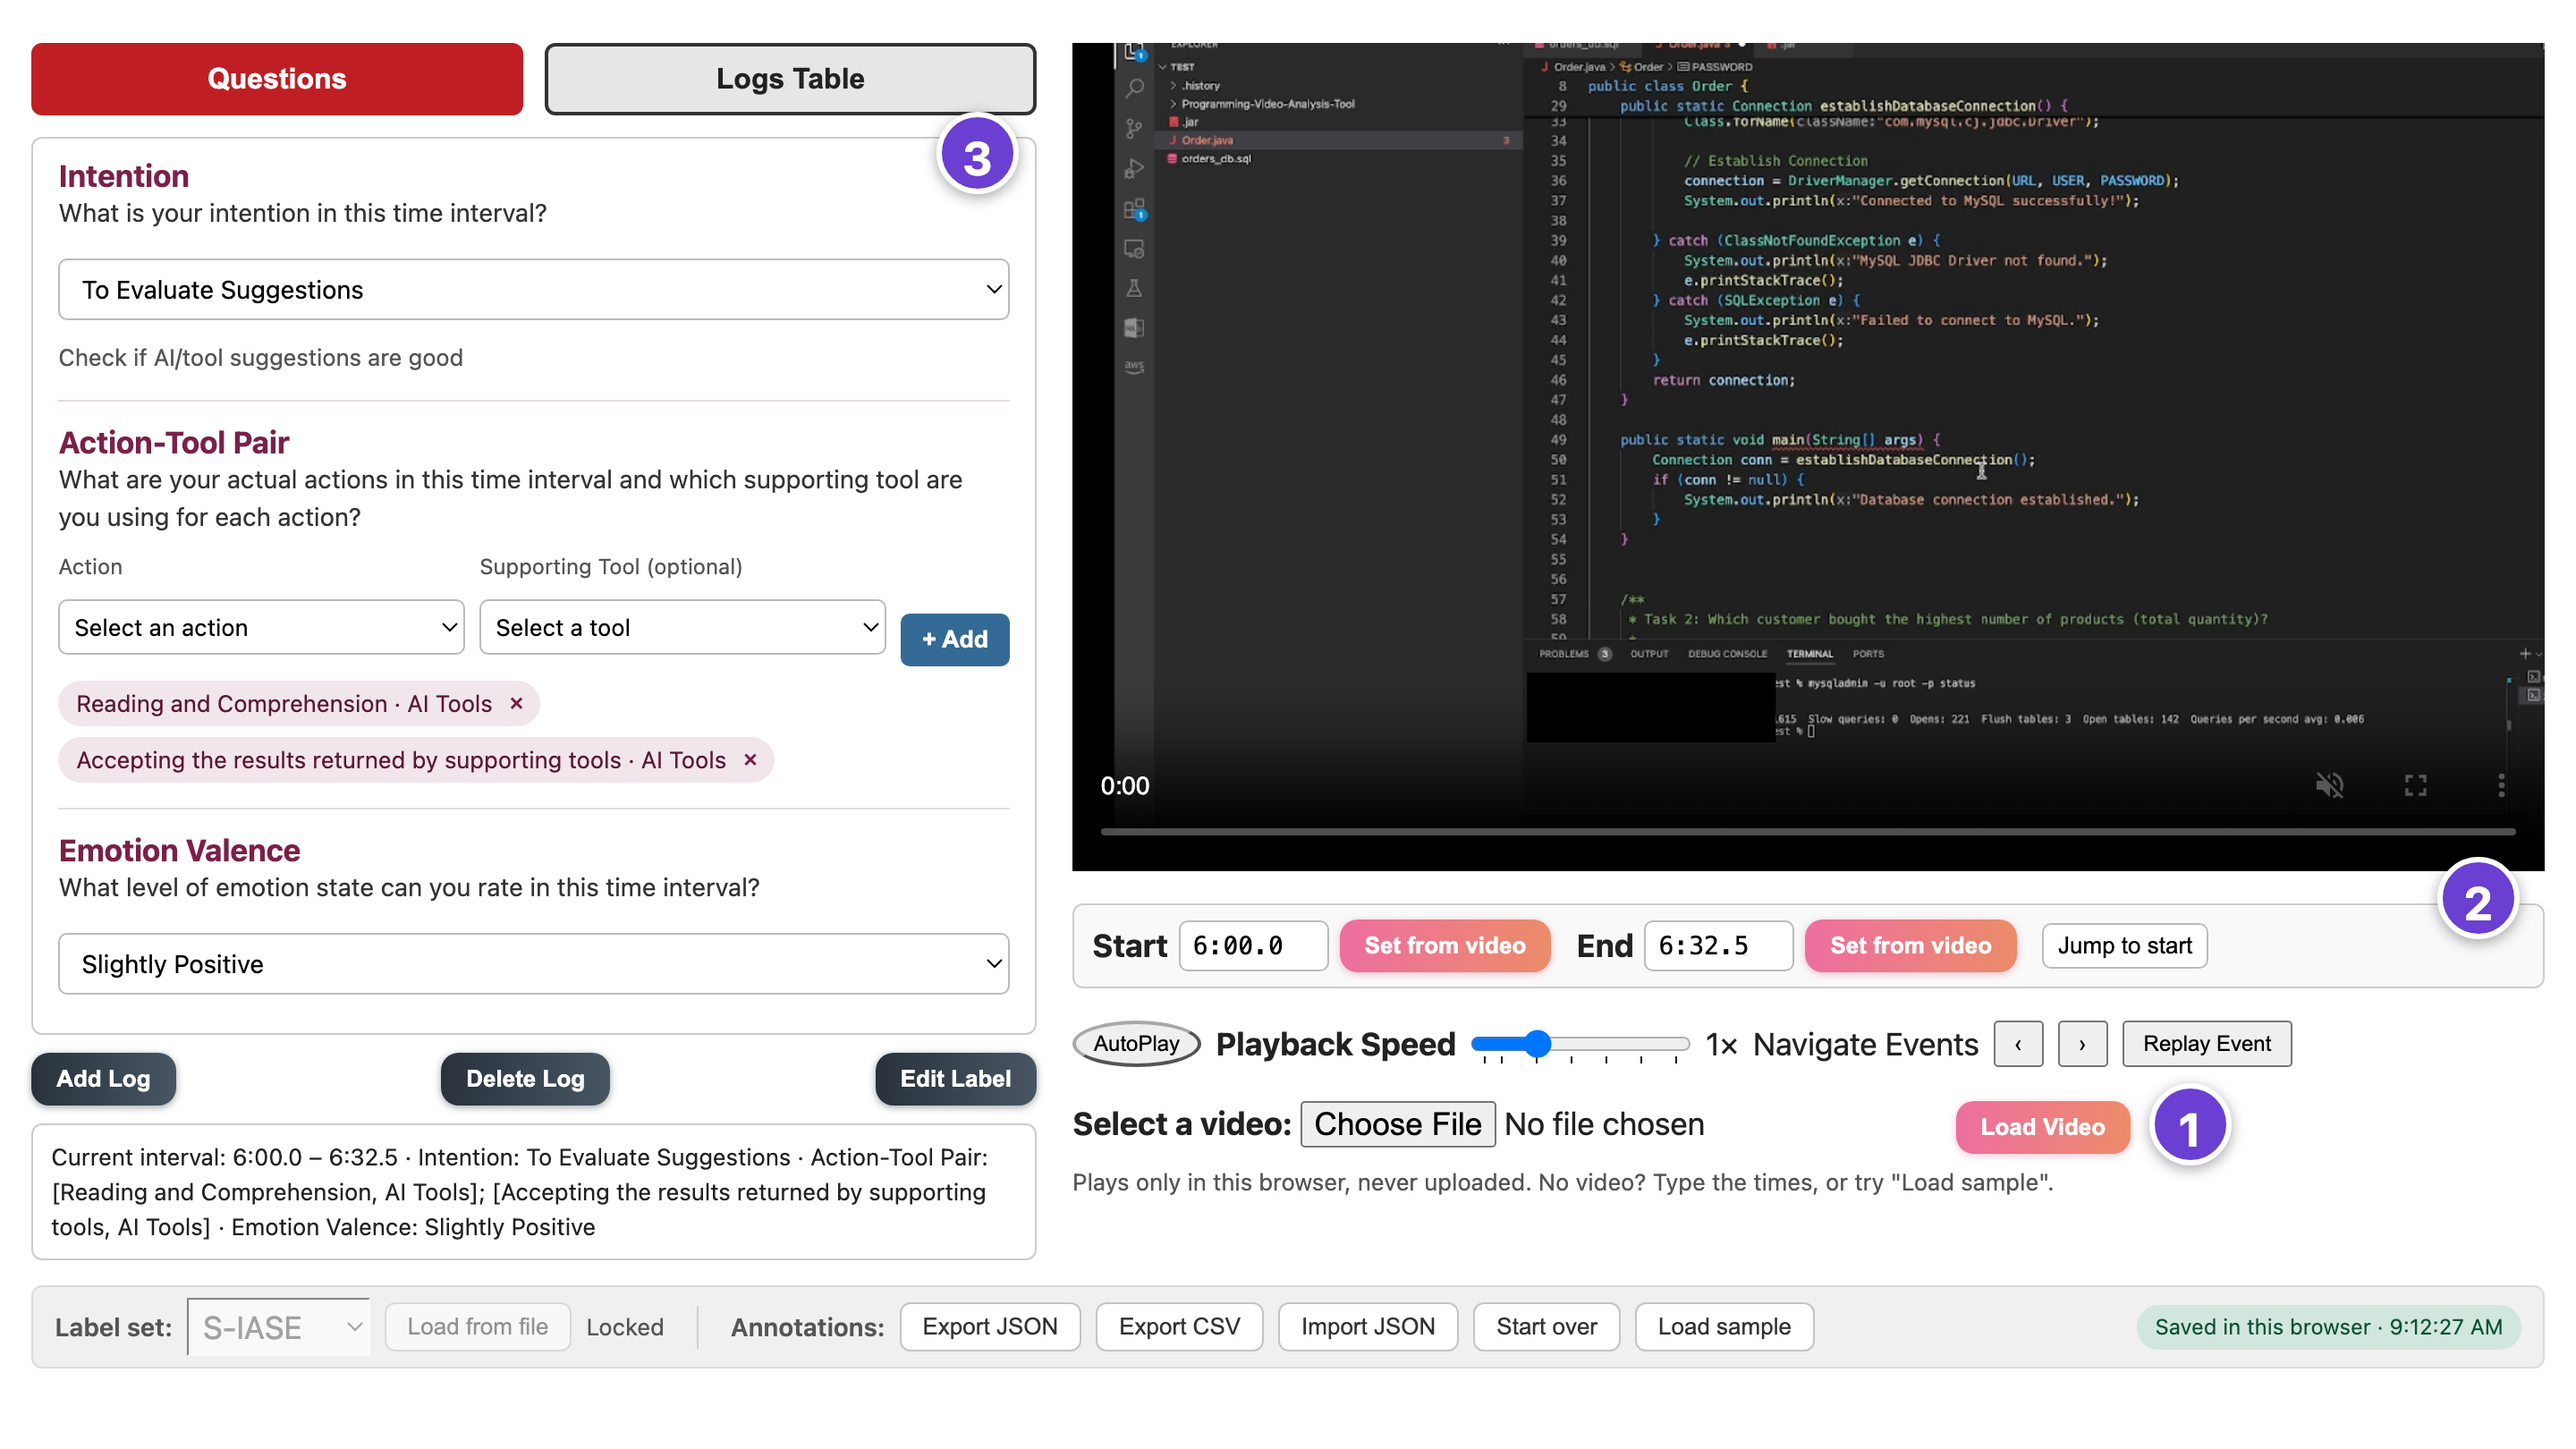
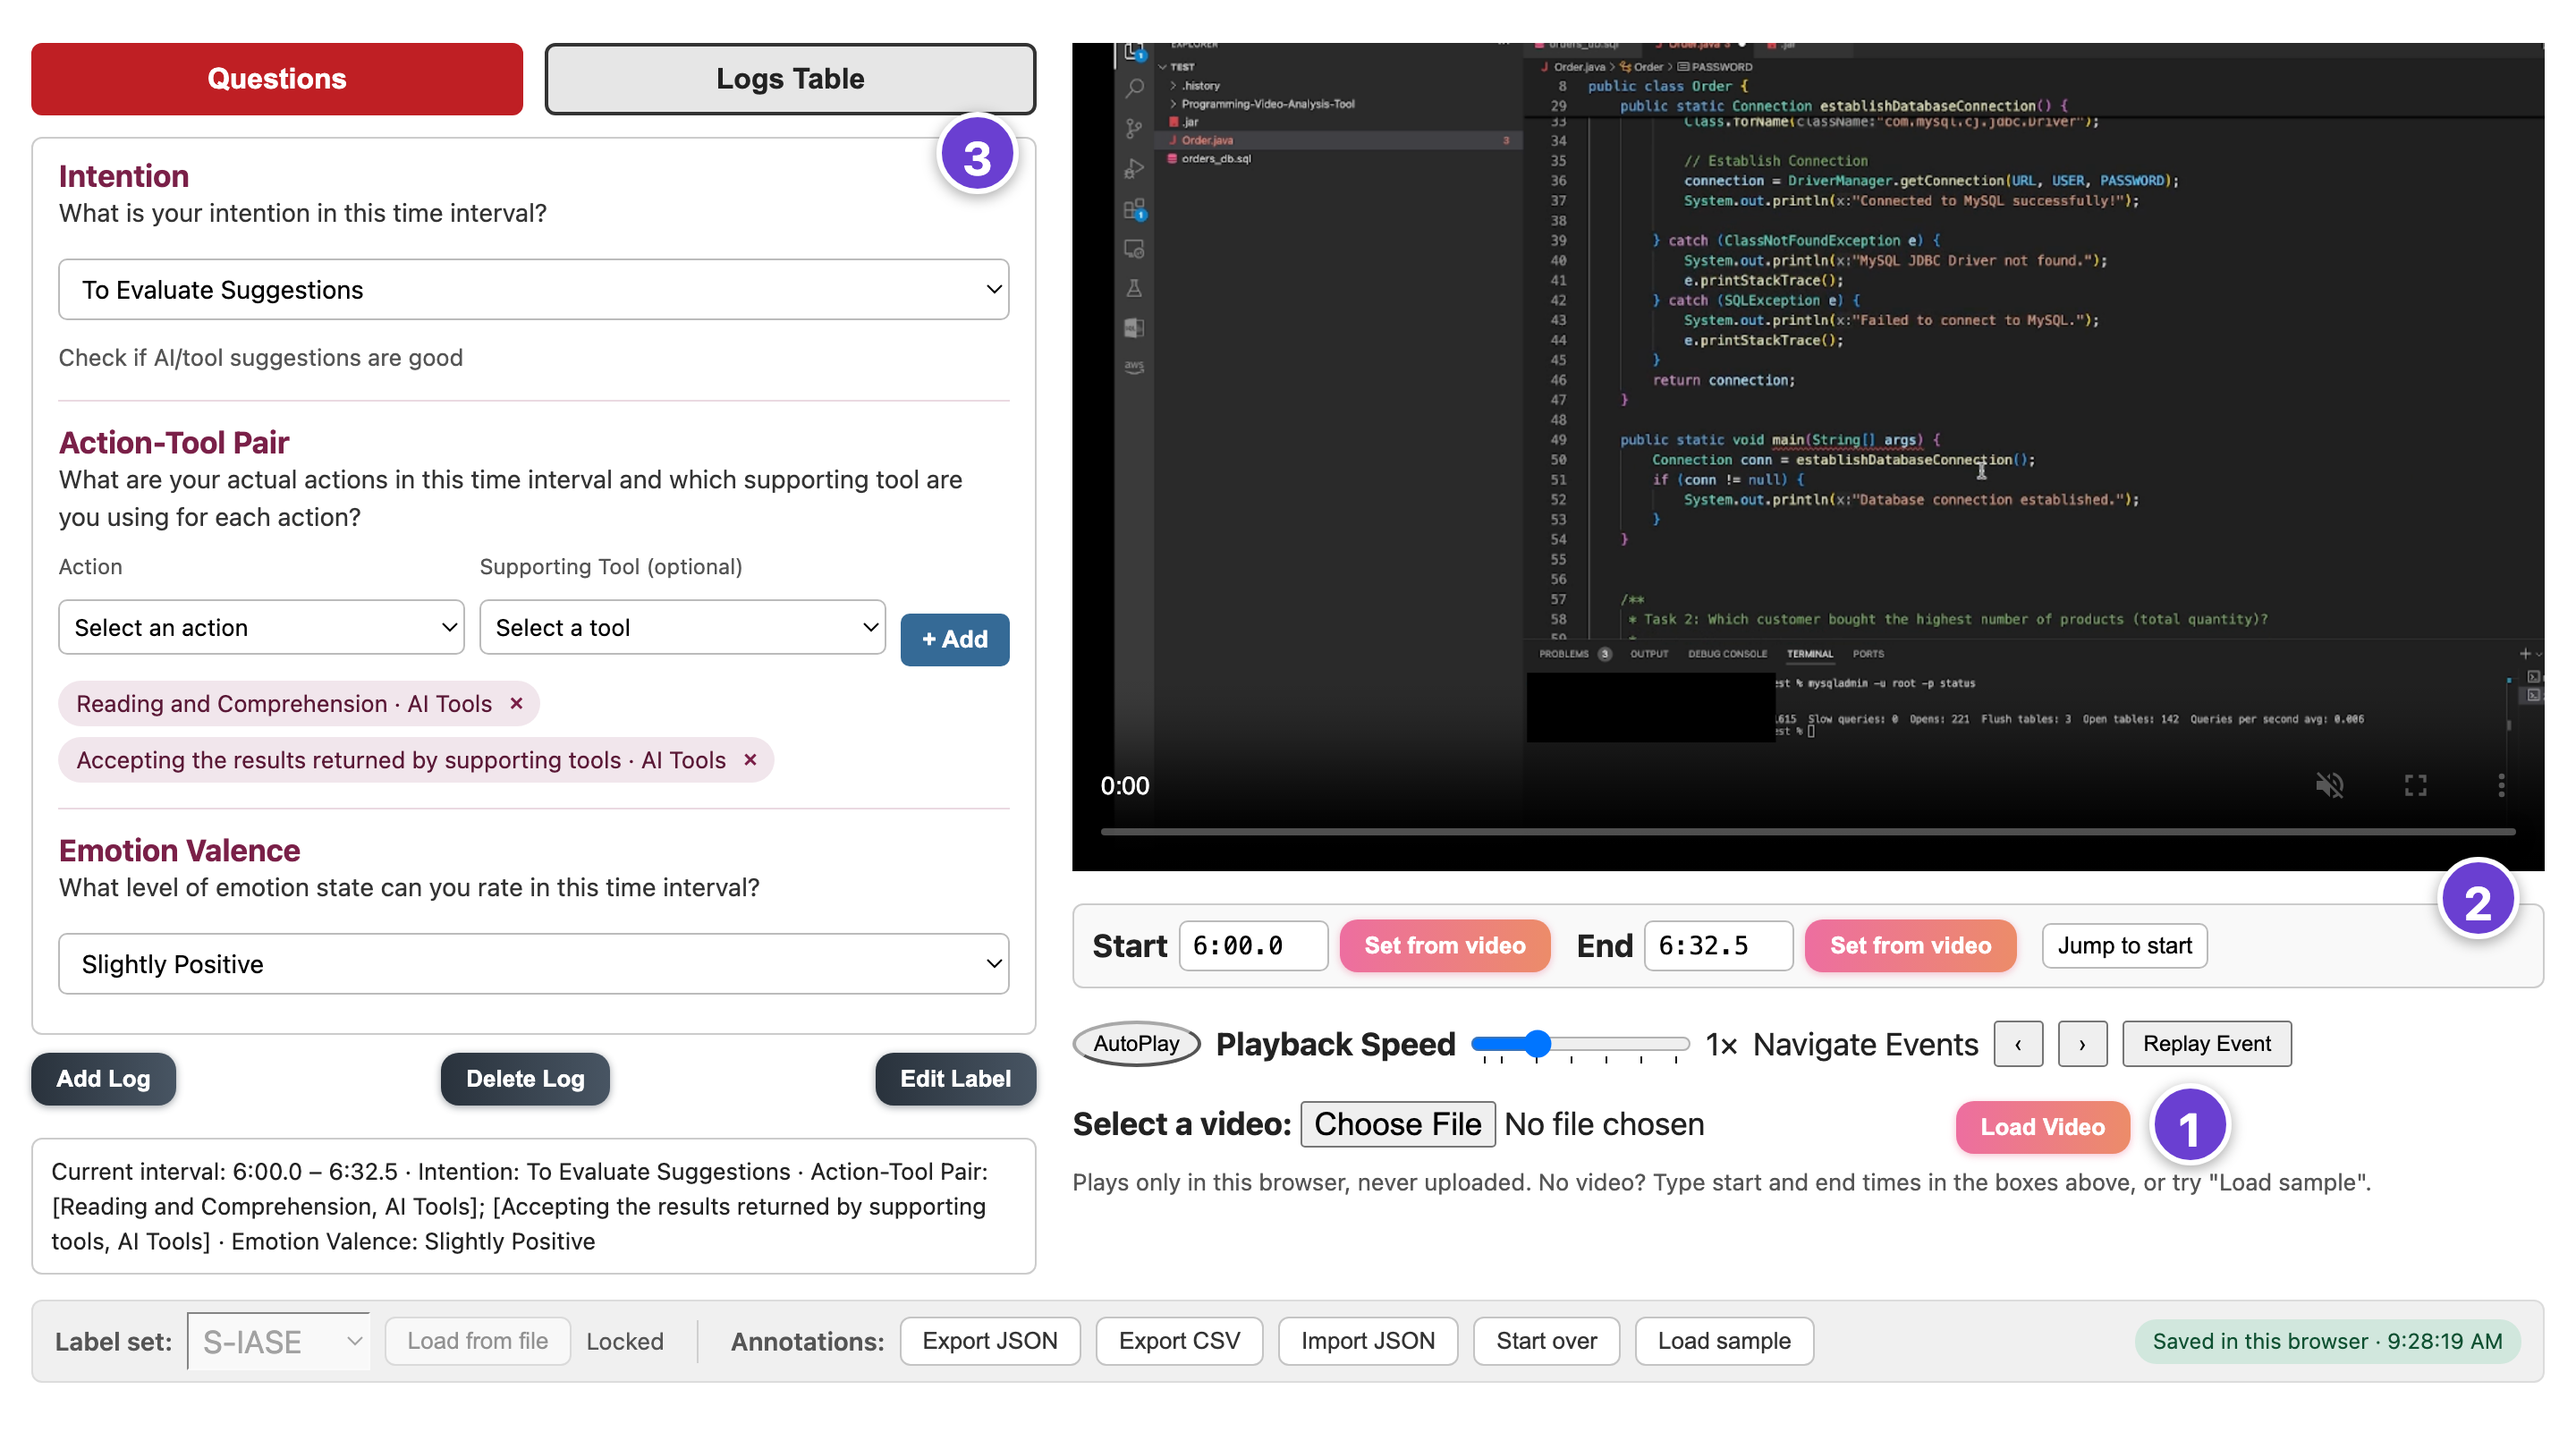
Clearer video hint; a little more space above the interval summary
Screenshots retaken.

Changed region(s): [[0.0, 0.7716, 0.7188, 0.9568], [0.8125, 0.8951, 1.0, 0.9568], [0.6562, 0.8025, 0.9062, 0.8333]]

diff --git a/app_study/index.html b/app_study/index.html
@@ -57,7 +57,7 @@
 
     /* Add / Delete / Edit and the summary of the interval being annotated */
     .button-group { display: flex; justify-content: space-between; gap: 8px; margin-top: 10px; }
-    #state { margin-top: 10px; padding: 8px 10px; border: 1px solid #ccc; border-radius: 6px; font-size: 13px; }
+    #state { margin-top: 18px; padding: 8px 10px; border: 1px solid #ccc; border-radius: 6px; font-size: 13px; }
     #state .missing { margin-top: 4px; color: #8a4b00; }
 
     /* The video fills the right column; 16:9 until a recording is loaded, then the recording's own shape,
@@ -200,7 +200,7 @@
                 <label for="video-upload">Select a video:</label>
                 <input type="file" id="video-upload" accept="video/*">
                 <button id="loadVideoButton" class="btn-hover color-10">Load Video</button>
-                <p class="video-hint">Plays only in this browser, never uploaded. No video? Type the times, or try "Load sample".</p>
+                <p class="video-hint">Plays only in this browser, never uploaded. No video? Type start and end times in the boxes above, or try "Load sample".</p>
               </div>
 
             </div>

diff --git a/docs/app/index.html b/docs/app/index.html
@@ -57,7 +57,7 @@
 
     /* Add / Delete / Edit and the summary of the interval being annotated */
     .button-group { display: flex; justify-content: space-between; gap: 8px; margin-top: 10px; }
-    #state { margin-top: 10px; padding: 8px 10px; border: 1px solid #ccc; border-radius: 6px; font-size: 13px; }
+    #state { margin-top: 18px; padding: 8px 10px; border: 1px solid #ccc; border-radius: 6px; font-size: 13px; }
     #state .missing { margin-top: 4px; color: #8a4b00; }
 
     /* The video fills the right column; 16:9 until a recording is loaded, then the recording's own shape,
@@ -200,7 +200,7 @@
                 <label for="video-upload">Select a video:</label>
                 <input type="file" id="video-upload" accept="video/*">
                 <button id="loadVideoButton" class="btn-hover color-10">Load Video</button>
-                <p class="video-hint">Plays only in this browser, never uploaded. No video? Type the times, or try "Load sample".</p>
+                <p class="video-hint">Plays only in this browser, never uploaded. No video? Type start and end times in the boxes above, or try "Load sample".</p>
               </div>
 
             </div>
